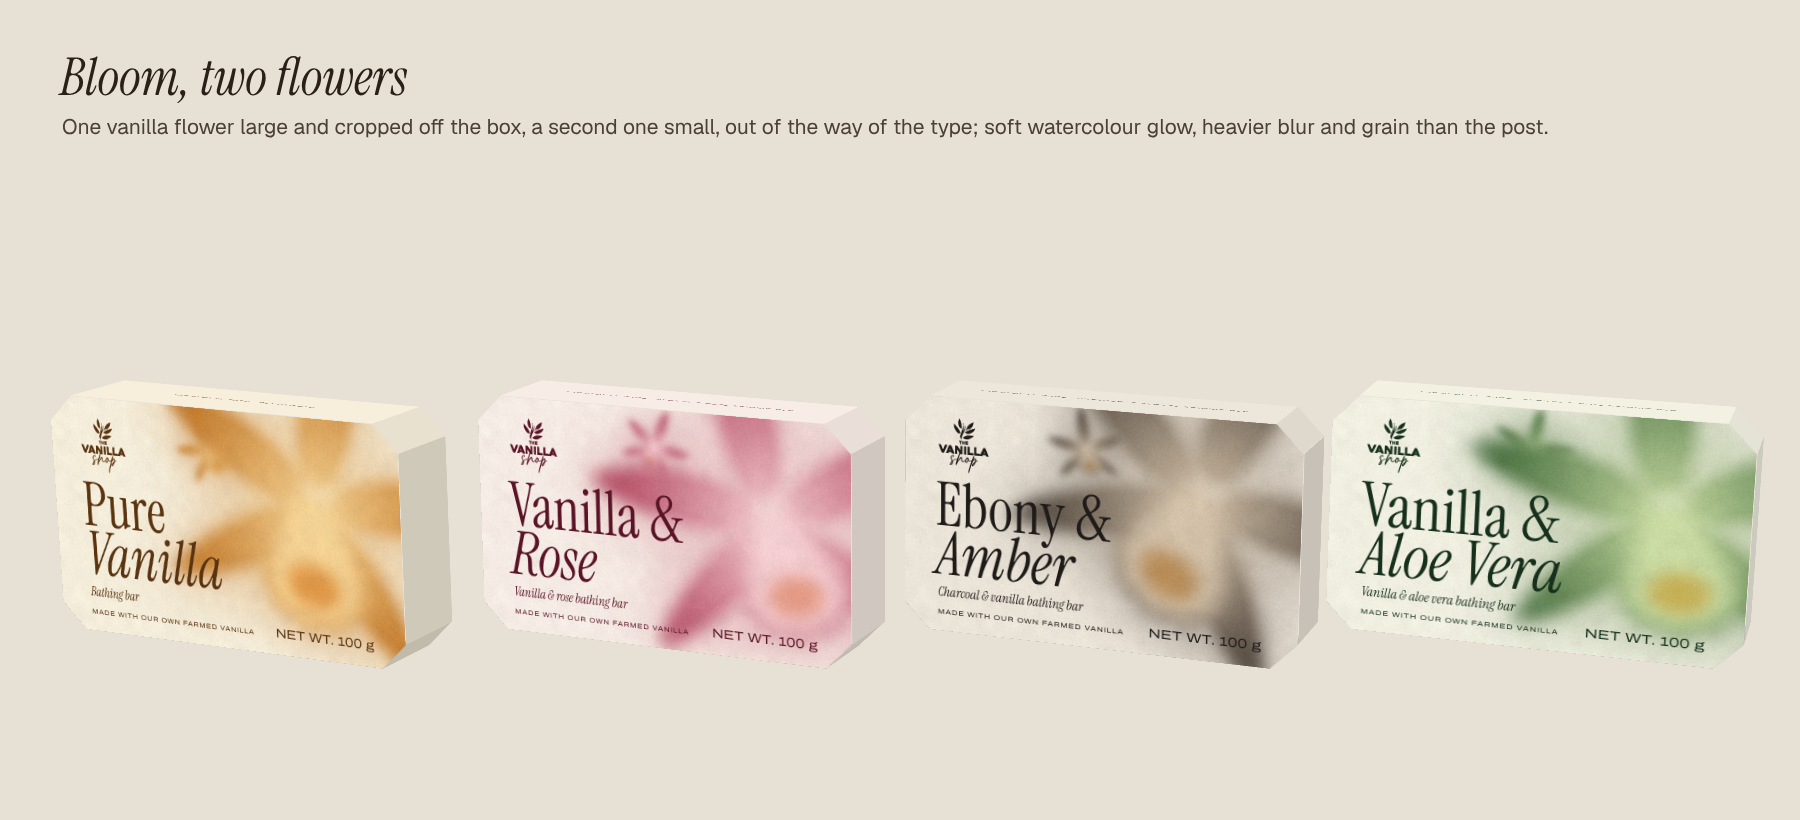
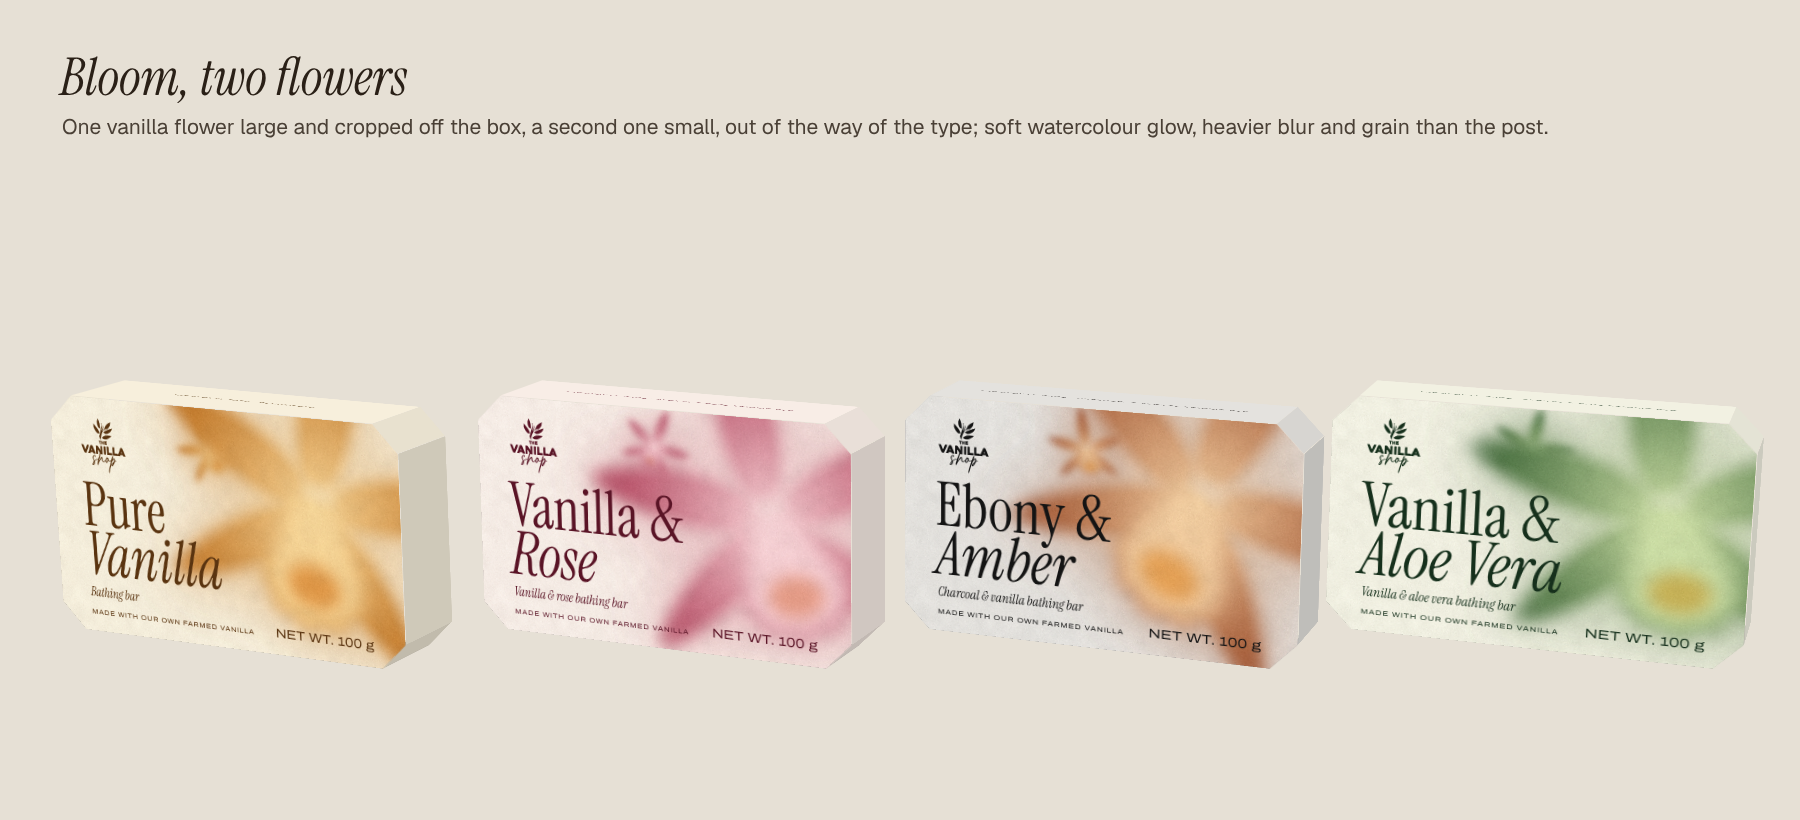
Soap Bloom duo: Ebony & Amber as an amber glow on cool grey with charcoal type
Claude-Session: https://claude.ai/code/session_01Psd6wLDi15Gf4F1fXEFmxS

Changed region(s): [[0.56, 0.4878, 0.7467, 0.8232]]

diff --git a/vanilla-shop/studies/soap/bloom-duo/octo8.py b/vanilla-shop/studies/soap/bloom-duo/octo8.py
@@ -128,8 +128,8 @@ def front_premium(k):
 EC={'vanilla':('#F1E7D3','#7A4E1E'),'rosette':('#D3A0A4','#FBF1EA'),'ebony':('#E3DDD3','#2E2A27'),'aloe':('#7E9B73','#F6F2E4')}
 EN={'vanilla':('Pure','Vanilla'),'rosette':('Vanilla &','Rose'),'ebony':('Ebony &','Amber'),'aloe':('Vanilla &','Aloe Vera')}
 ES={'vanilla':'Bathing bar','rosette':'Vanilla & rose bathing bar','ebony':'Charcoal & vanilla bathing bar','aloe':'Vanilla & aloe vera bathing bar'}
-DK={'vanilla':'#5A3410','rosette':'#5A1426','ebony':'#1F1B19','aloe':'#16301C'}
-DG={'vanilla':'#F7EFDC','rosette':'#F8EDE6','ebony':'#EDE6DA','aloe':'#F2F1E2'}
+DK={'vanilla':'#5A3410','rosette':'#5A1426','ebony':'#141414','aloe':'#16301C'}
+DG={'vanilla':'#F7EFDC','rosette':'#F8EDE6','ebony':'#E4E2DE','aloe':'#F2F1E2'}
 def front_engr(k,art=None):
     g,ink=EC[k]; l1,l2=EN[k]; x=12
     if art: g,ink=DG[k],DK[k]

diff --git a/vanilla-shop/studies/soap/bloom-duo/duo.py b/vanilla-shop/studies/soap/bloom-duo/duo.py
@@ -7,7 +7,7 @@ O='/tmp/claude-0/-home-user-PersonalEventPlanner305App/0712b206-ea71-562e-9a83-4
 K=bloom.K; W,H=150,95                       # front 136 x 81 + 7 mm round it
 CW={'vanilla':('#B5620F','#F8D79A','#D9822A','#F7EFDC'),
     'rosette':('#A8324E','#F8D3D6','#E08A6A','#F8EDE6'),
-    'ebony':  ('#2E2622','#D9C7AE','#B07A3A','#EDE6DA'),
+    'ebony':  ('#8E3A1A','#F3CFA2','#E0913A','#E4E2DE'),
     'aloe':   ('#2F5A2D','#CFE0A8','#C9A33A','#F2F1E2')}
 # (cx, cy, R, rotation) for the big and the small flower, in front mm
 LAY={'vanilla':((104,30,74,-14),(64,14,15,22)),
